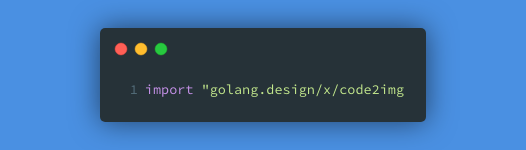
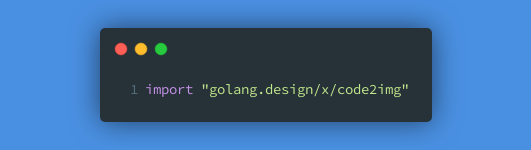
all: add an example

Changed region(s): [[0.2738, 0.1867, 0.8213, 0.8], [0.2129, 0.2667, 0.3346, 0.3733], [0.1825, 0.1867, 0.2129, 0.2133]]

diff --git a/example/main.go b/example/main.go
@@ -1,0 +1,24 @@
+package main
+
+import (
+	"context"
+	"os"
+
+	"golang.design/x/code2img"
+)
+
+func main() {
+	f, err := os.ReadFile("main.go")
+	if err != nil {
+		panic(err)
+	}
+	code := string(f)
+
+	// render it!
+	b, err := code2img.Render(context.TODO(), code)
+	if err != nil {
+		panic(err)
+	}
+
+	os.WriteFile("code.png", b, os.ModePerm)
+}

diff --git a/code2img_test.go b/code2img_test.go
@@ -22,7 +22,7 @@ func TestRender(t *testing.T) {
 	ctx, cancel := context.WithTimeout(context.Background(), time.Second*10)
 	defer cancel()
 
-	got, err := code2img.Render(ctx, `import "golang.design/x/code2img`)
+	got, err := code2img.Render(ctx, `import "golang.design/x/code2img"`)
 	if err != nil {
 		t.Fatalf("render failed: %v", err)
 	}

diff --git a/README.md b/README.md
@@ -1,6 +1,6 @@
 # code2img [![PkgGoDev](https://pkg.go.dev/badge/golang.design/x/code2img)](https://pkg.go.dev/golang.design/x/code2img) ![](https://changkun.de/urlstat?mode=github&repo=golang-design/code2img)
 
-a carbon service wrapper
+a carbon service wrapper for Go users
 
 ```go
 import "golang.design/x/code2img"
@@ -8,16 +8,9 @@ import "golang.design/x/code2img"
 
 ## API Usage
 
-Just one API `code2img.Render`, to use it:
+Just one API `code2img.Render`, to use it (see [main.go](./example/main.go)):
 
-```go
-b, err := code2img.Render(context.TODO(), `import "golang.design/x/code2img"`)
-if err != nil {
-    panic(err)
-}
-
-os.WriteFile("code.png", b, os.ModePerm)
-```
+![](./example/code.png)
 
 ## Service Usage
 
